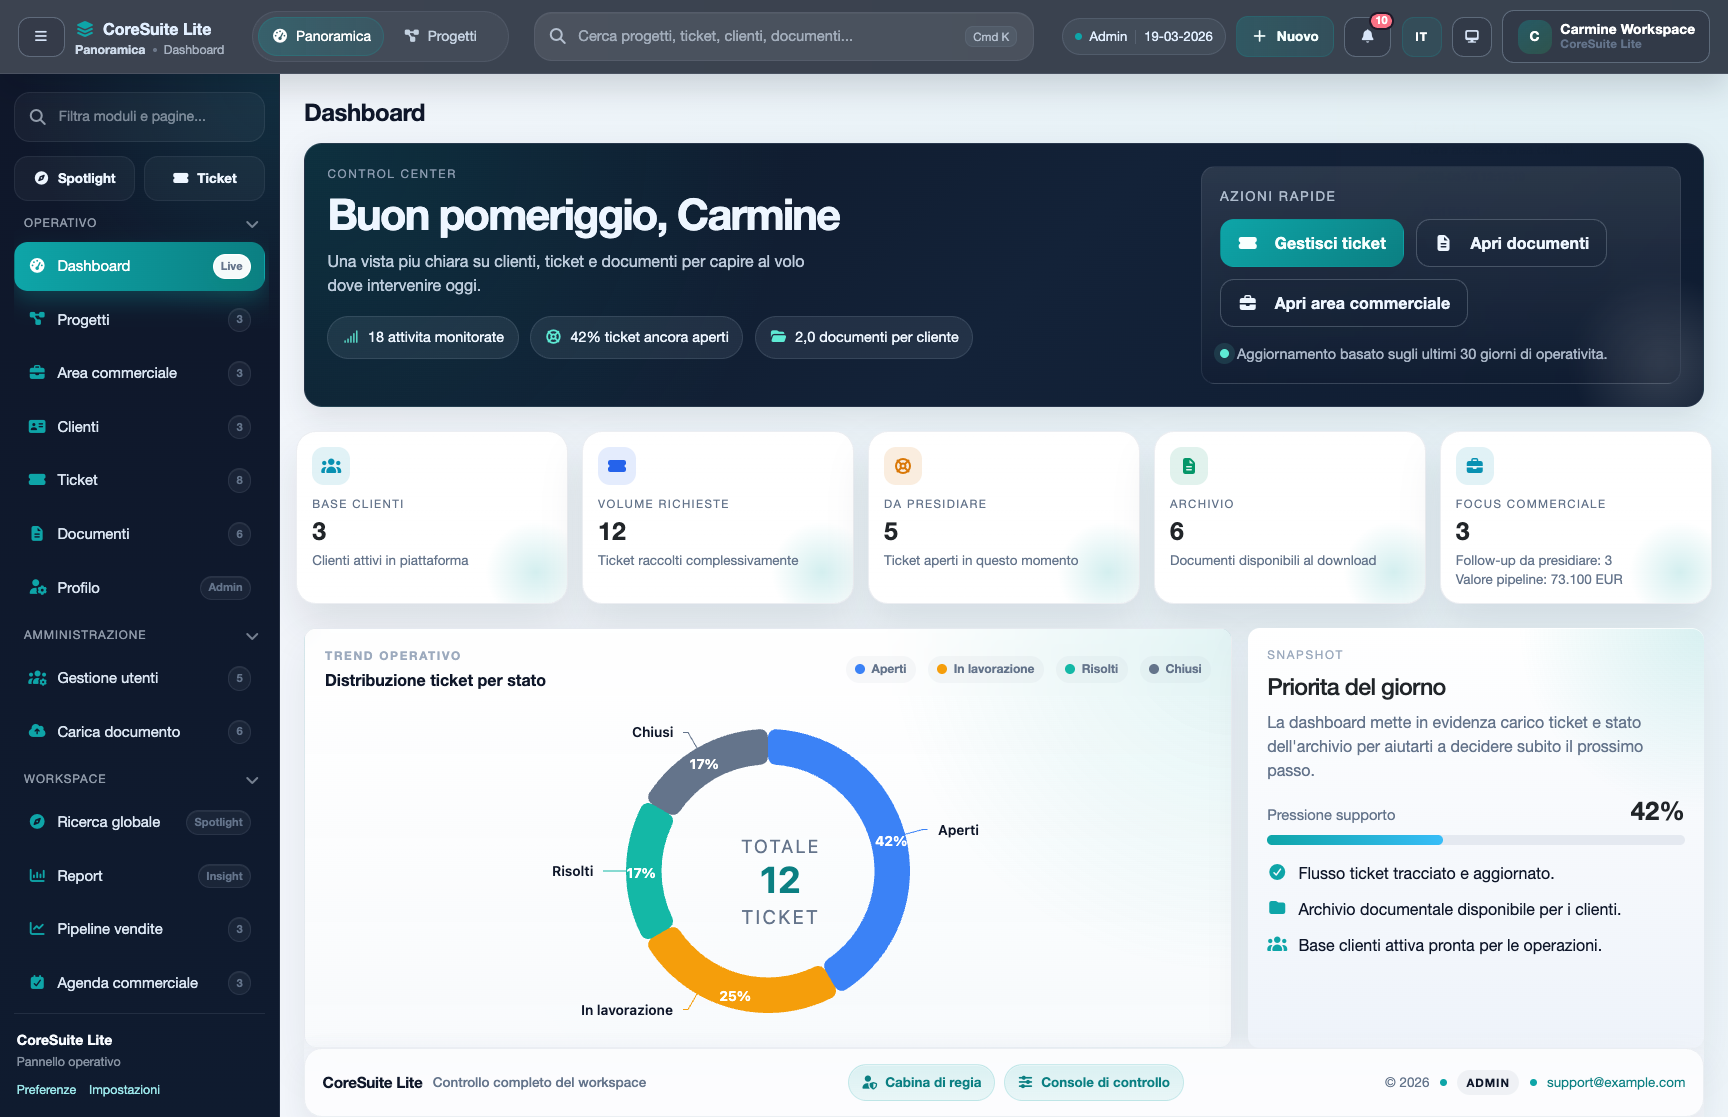
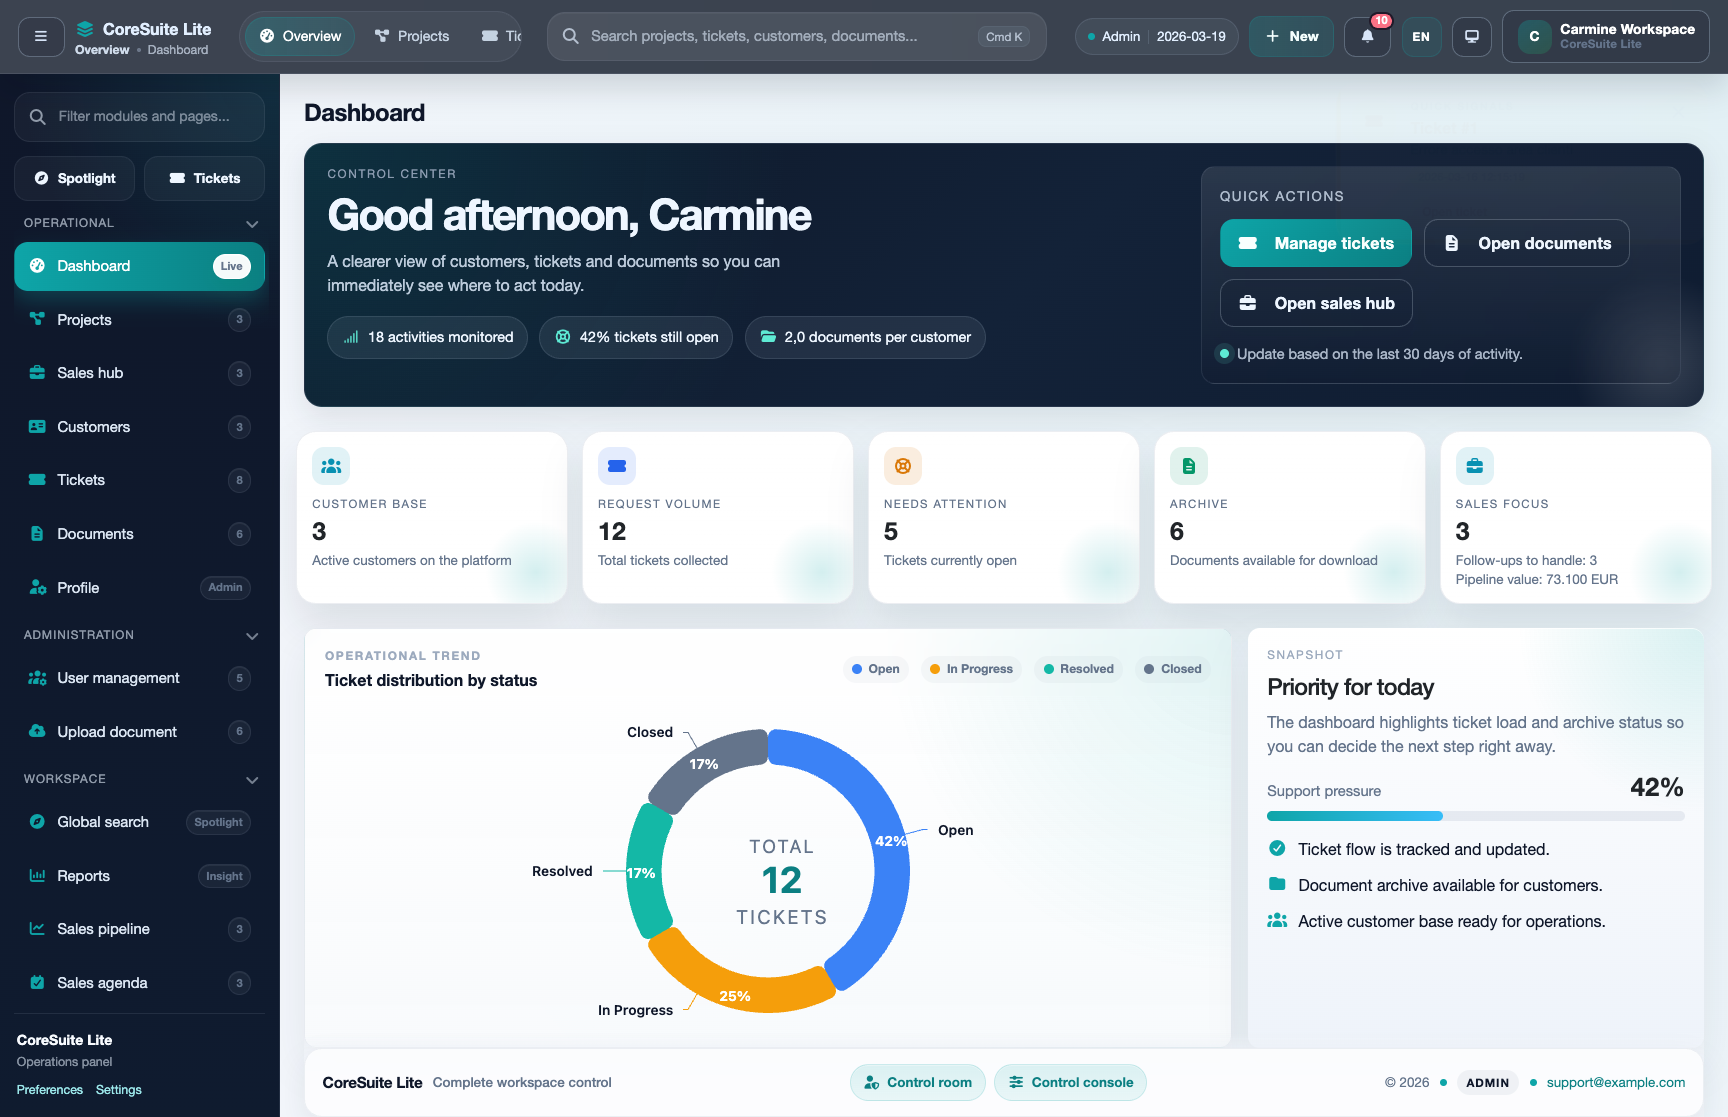
Add demo login credentials for testing access roles
- Introduced a new PHP file `demo-login-credentials.php` that contains demo accounts for Admin, Operator, and Customer roles.
- Each account includes a label, email, and password for easy access after importing sample data.

diff --git a/public/assets/css/theme.css b/public/assets/css/theme.css
@@ -6724,6 +6724,59 @@ body.sidebar-open .admin-sidebar-overlay {
     box-shadow: none;
 }
 
+.login-demo-note {
+    margin-bottom: 1.25rem;
+    padding: 1rem 1.1rem;
+    border-radius: 1rem;
+    border: 1px solid rgba(148, 163, 184, 0.18);
+    background: linear-gradient(135deg, rgba(15, 118, 110, 0.1), rgba(255, 255, 255, 0.92));
+    box-shadow: 0 16px 32px rgba(15, 23, 42, 0.06);
+}
+
+.login-demo-note__header {
+    display: flex;
+    align-items: center;
+    gap: 0.65rem;
+    margin-bottom: 0.45rem;
+}
+
+.login-demo-note__badge {
+    display: inline-flex;
+    align-items: center;
+    justify-content: center;
+    padding: 0.22rem 0.6rem;
+    border-radius: 999px;
+    background: rgba(15, 118, 110, 0.14);
+    color: #0f766e;
+    font-size: 0.72rem;
+    font-weight: 700;
+    letter-spacing: 0.08em;
+    text-transform: uppercase;
+}
+
+.login-demo-note__text {
+    margin: 0 0 0.7rem;
+    color: var(--text-muted);
+    font-size: 0.93rem;
+}
+
+.login-demo-note__credentials {
+    display: grid;
+    gap: 0.35rem;
+    font-size: 0.92rem;
+}
+
+.login-demo-note__account {
+    display: grid;
+    gap: 0.2rem;
+    padding-top: 0.45rem;
+}
+
+.login-demo-note__account + .login-demo-note__account {
+    border-top: 1px solid rgba(148, 163, 184, 0.14);
+    margin-top: 0.35rem;
+}
+
 .login-form {
     margin-top: 0.2rem;
     gap: 1rem 0;
@@ -6849,6 +6902,26 @@ body.sidebar-open .admin-sidebar-overlay {
 [data-theme="dark"] .login-access-card {
     background: transparent;
     box-shadow: none;
+}
+
+[data-theme="dark"] .login-demo-note {
+    background: linear-gradient(135deg, rgba(15, 118, 110, 0.18), rgba(7, 12, 24, 0.94));
+    border-color: rgba(45, 212, 191, 0.2);
+    color: var(--card-dark-text, #e6fff8);
+    box-shadow: 0 18px 36px rgba(2, 6, 23, 0.28);
+}
+
+[data-theme="dark"] .login-demo-note__text {
+    color: var(--card-dark-text-muted, rgba(204, 251, 241, 0.78));
+}
+
+[data-theme="dark"] .login-demo-note__badge {
+    background: rgba(45, 212, 191, 0.18);
+    color: #99f6e4;
+}
+
+[data-theme="dark"] .login-demo-note__account + .login-demo-note__account {
+    border-top-color: rgba(45, 212, 191, 0.14);
 }
 
 [data-theme="dark"] .login-input-group {

diff --git a/tools/capture_gumroad_screenshots.js b/tools/capture_gumroad_screenshots.js
@@ -6,6 +6,7 @@ const baseUrl = process.env.CAPTURE_BASE_URL || 'http://127.0.0.1:8025';
 const outputDir = path.resolve(process.cwd(), 'docs/screenshots/gumroad');
 const chromePath = '/Applications/Google Chrome.app/Contents/MacOS/Google Chrome';
 const desktopViewport = { width: 1728, height: 1117, deviceScaleFactor: 1 };
+const captureLocale = 'en';
 
 const shots = [
   { name: '01-login.png', path: '/login', auth: false, waitFor: '.login-stage' },
@@ -35,6 +36,10 @@ async function waitForOne(page, selectorList) {
 }
 
 async function login(page) {
+  await page.goto(`${baseUrl}/locale/${captureLocale}?redirect=${encodeURIComponent('/login')}`, {
+    waitUntil: 'networkidle2',
+    timeout: 30000,
+  });
   await page.goto(`${baseUrl}/login`, { waitUntil: 'networkidle2', timeout: 30000 });
   await page.waitForSelector('input[name="email"]', { timeout: 10000 });
   await page.type('input[name="email"]', 'admin@example.com', { delay: 20 });
@@ -74,6 +79,10 @@ async function capture() {
         await login(page);
         loggedIn = true;
       } else {
+        await page.goto(`${baseUrl}/locale/${captureLocale}?redirect=${encodeURIComponent(shot.path)}`, {
+          waitUntil: 'networkidle2',
+          timeout: 30000,
+        });
         await page.goto(`${baseUrl}${shot.path}`, { waitUntil: 'networkidle2', timeout: 30000 });
       }
 

diff --git a/app/Views/login.php b/app/Views/login.php
@@ -141,10 +141,29 @@
         ],
     ];
     $docRoot = $_SERVER['DOCUMENT_ROOT'] ?? '';
+    $requestHost = (string) ($_SERVER['HTTP_HOST'] ?? $_SERVER['SERVER_NAME'] ?? '');
+    $requestHost = strtolower(trim(explode(':', $requestHost)[0] ?? ''));
+    $isLocalRequest = in_array($requestHost, ['localhost', '127.0.0.1', '::1'], true);
     $assetBase = (is_string($docRoot) && is_file(rtrim($docRoot, '/') . '/assets/css/bootstrap.css'))
         ? '/assets'
         : '/public/assets';
     $lt = $loginText[\Core\Locale::current()] ?? $loginText['it'];
+    $demoCredentialsFile = dirname(__DIR__, 2) . '/src/demo-login-credentials.php';
+    $demoCredentials = ($isLocalRequest && is_file($demoCredentialsFile)) ? require $demoCredentialsFile : null;
+    $demoAccounts = [];
+    if (is_array($demoCredentials)) {
+        if (!empty($demoCredentials['accounts']) && is_array($demoCredentials['accounts'])) {
+            $demoAccounts = array_values(array_filter($demoCredentials['accounts'], static function ($account) {
+                return is_array($account) && !empty($account['email']) && !empty($account['password']);
+            }));
+        } elseif (!empty($demoCredentials['email']) && !empty($demoCredentials['password'])) {
+            $demoAccounts[] = [
+                'label' => $demoCredentials['label'] ?? 'Demo',
+                'email' => $demoCredentials['email'],
+                'password' => $demoCredentials['password'],
+            ];
+        }
+    }
     ?>
     <meta charset="UTF-8">
     <meta name="viewport" content="width=device-width, initial-scale=1.0">
@@ -235,6 +254,26 @@
 
                     <?php if (isset($error)): ?>
                         <div class="alert alert-danger" role="alert"><?php echo htmlspecialchars($error); ?></div>
+                    <?php endif; ?>
+
+                    <?php if ($demoAccounts !== []): ?>
+                        <div class="login-demo-note" role="note" aria-label="Demo credentials">
+                            <div class="login-demo-note__header">
+                                <span class="login-demo-note__badge">Demo</span>
+                                <strong><?php echo htmlspecialchars((string) ($demoCredentials['title'] ?? 'Try the demo access')); ?></strong>
+                            </div>
+                            <?php if (!empty($demoCredentials['message'])): ?>
+                                <p class="login-demo-note__text"><?php echo htmlspecialchars((string) $demoCredentials['message']); ?></p>
+                            <?php endif; ?>
+                            <div class="login-demo-note__credentials">
+                                <?php foreach ($demoAccounts as $account): ?>
+                                    <div class="login-demo-note__account">
+                                        <span><strong><?php echo htmlspecialchars((string) ($account['label'] ?? 'Demo')); ?>:</strong> <?php echo htmlspecialchars((string) $account['email']); ?></span>
+                                        <span><strong>Password:</strong> <?php echo htmlspecialchars((string) $account['password']); ?></span>
+                                    </div>
+                                <?php endforeach; ?>
+                            </div>
+                        </div>
                     <?php endif; ?>
 
                     <form method="POST" action="/login" class="row g-3 login-form">

diff --git a/src/demo-login-credentials.php b/src/demo-login-credentials.php
@@ -1,0 +1,23 @@
+<?php
+
+return [
+    'title' => 'Try the demo access',
+    'message' => 'Use these demo accounts after importing the sample data to explore the workspace by role.',
+    'accounts' => [
+        [
+            'label' => 'Admin',
+            'email' => 'admin@example.com',
+            'password' => 'admin123',
+        ],
+        [
+            'label' => 'Operator',
+            'email' => 'operator@example.com',
+            'password' => 'operator123',
+        ],
+        [
+            'label' => 'Customer',
+            'email' => 'customer@example.com',
+            'password' => 'customer123',
+        ],
+    ],
+];

diff --git a/docs/screenshots/gumroad/store-ready/README.md b/docs/screenshots/gumroad/store-ready/README.md
@@ -2,7 +2,7 @@
 
 Recommended upload order:
 
-1. `00-cover-hero-1600x900.png`
+1. `00-thumbnail-1280x720.png`
 2. `01-dashboard-overview.png`
 3. `02-sales-dashboard.png`
 4. `03-sales-pipeline.png`
@@ -11,7 +11,9 @@ Recommended upload order:
 
 Suggested use:
 
-- `00-cover-hero-1600x900.png` as the main gallery cover
+- `00-thumbnail-1280x720.png` as the main store thumbnail or gallery cover
+- `00-thumbnail-600x600.png` when the platform requires a square thumbnail
+- `00-cover-hero-1600x900.png` as a secondary wide hero image when you need a larger visual
 - `01-dashboard-overview.png` to show the general admin workspace
 - `02-sales-dashboard.png` and `03-sales-pipeline.png` to highlight the sales CRM
 - `04-ticket-board.png` to show operations and support workflow

diff --git a/docs/RELEASE_PACKAGE.md b/docs/RELEASE_PACKAGE.md
@@ -26,6 +26,9 @@ Use this guide before creating the final marketplace ZIP.
 - `tools/screenshot.js`
 - `LITE.session.sql`
 - `seed.php`
+- `src/demo-login-credentials.php`
+
+Local demo login credentials must remain local-only: keep the optional `src/demo-login-credentials.php` file out of the package and use them only on `localhost`, `127.0.0.1`, or `::1`.
 
 ## Recommended Release Structure
 
